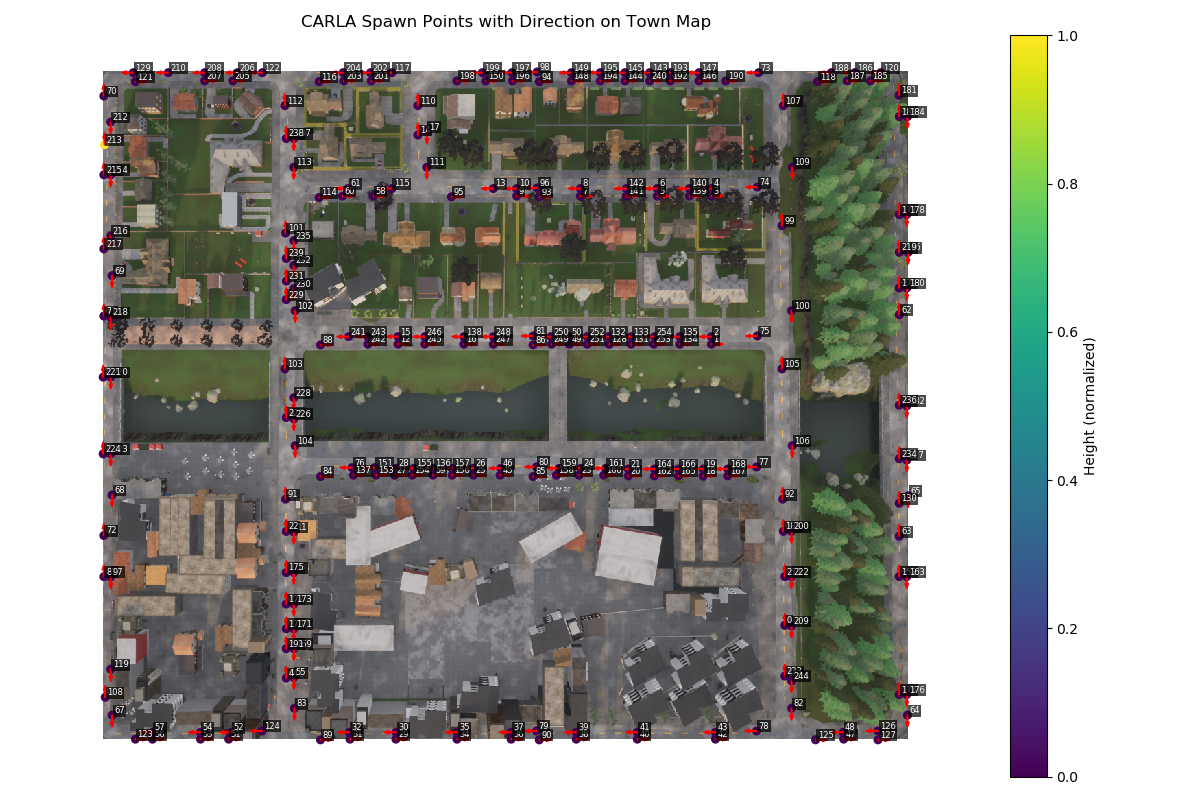
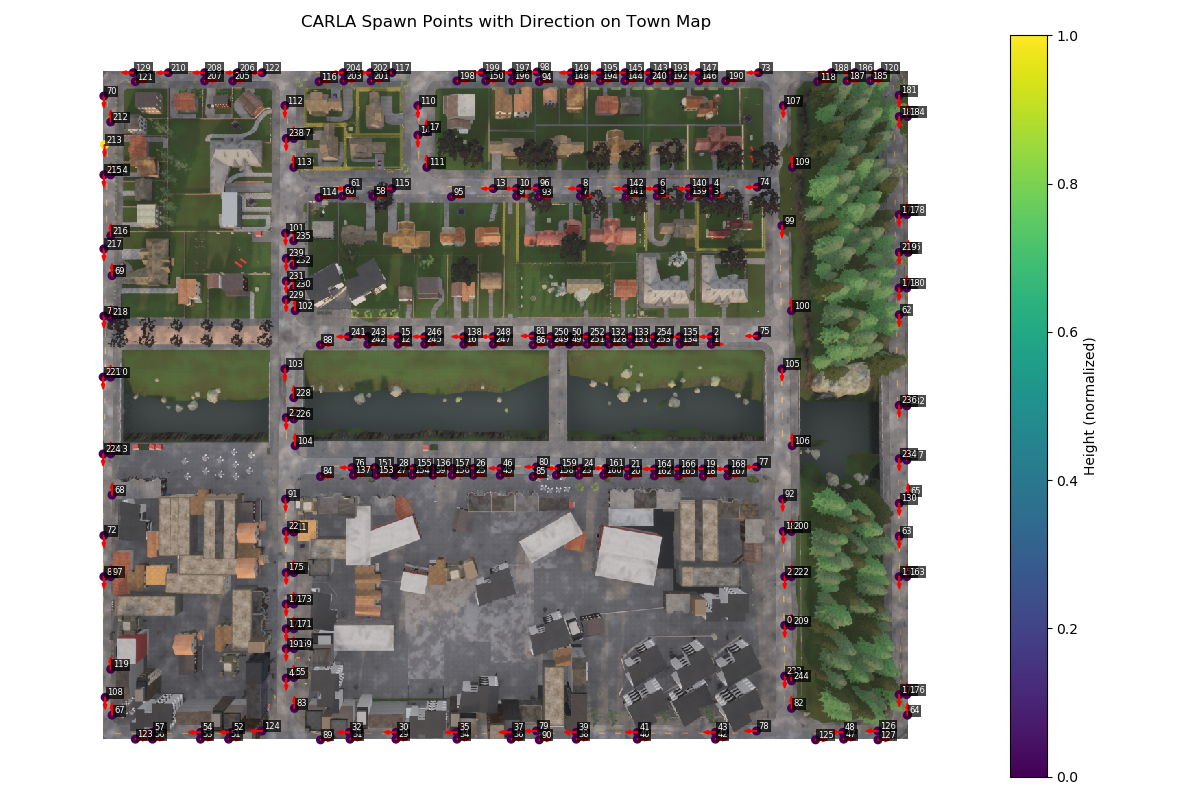
fixed the plot and Mention: the map image is captured from simulation, so that not excatly position on map.

diff --git a/src/perception/src/utils/plot_carla_spawn_points.py b/src/perception/src/utils/plot_carla_spawn_points.py
@@ -7,7 +7,7 @@ import numpy as np
 def visualize_spawn_points_on_map(spawn_transforms, map_image):
     # Extract coordinates and rotations
     coords = np.array([[t.location.x, -t.location.y, t.location.z] for t in spawn_transforms])
-    rotations = np.array([[t.rotation.pitch, t.rotation.roll, t.rotation.yaw] for t in spawn_transforms])
+    rotations = np.array([[t.rotation.pitch, t.rotation.roll, -t.rotation.yaw] for t in spawn_transforms])
 
     # Normalize coordinates to image size
     height, width = map_image.shape[:2]
